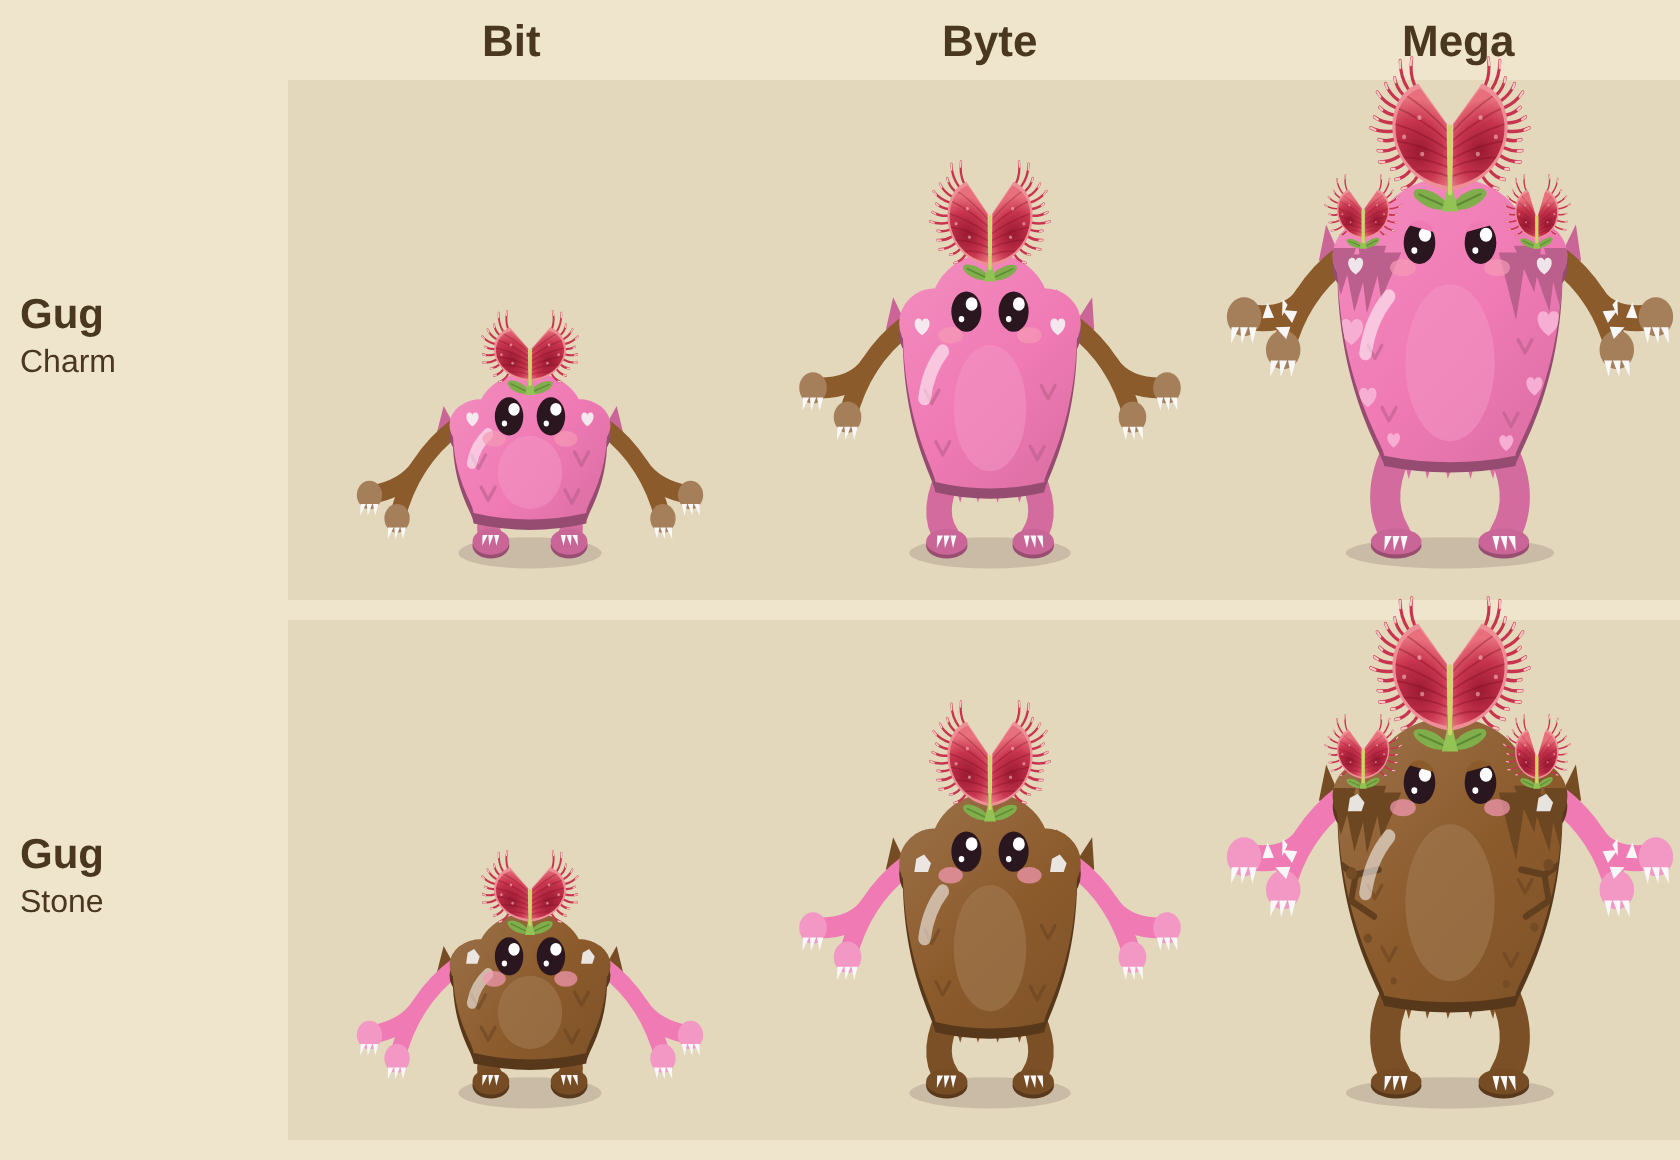
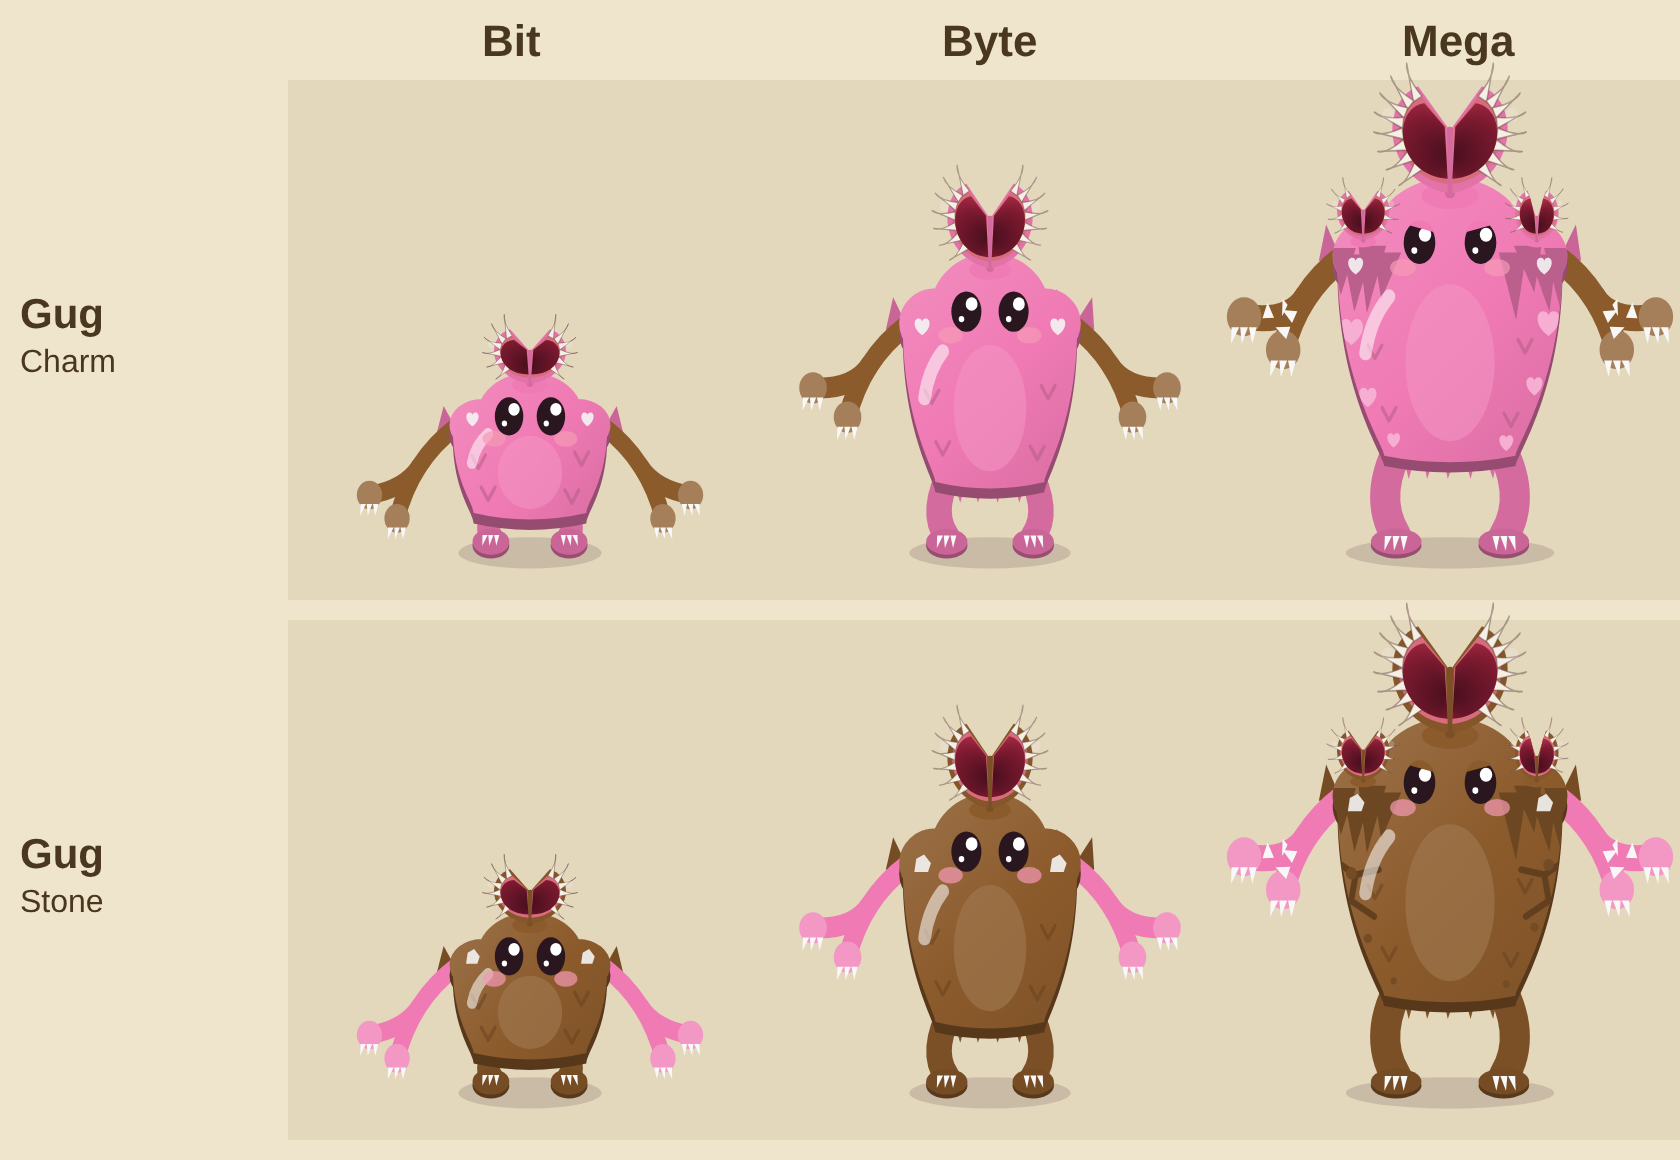
Gug's mouth is a real mouth shaped like a flytrap: two fleshy jaws in its own colour, pink gums, dark red inside and teeth along the rims, with no plant parts
Claude-Session: https://claude.ai/code/session_01MQWzxVrGaM5SWzbnobBWB8

diff --git a/prototype/chibi.js b/prototype/chibi.js
@@ -3554,7 +3554,7 @@ x.feet.push([g.cx, 182, 10]); },
     /* Gug: a hunched, shaggy giant with a big head sunk between its shoulders, long arms that hang to its knees, and forearms that fork at the elbow into two clawed hands. A furry little lump with short arms and a wide grin; long forked arms, a crouch and a shaggy mane from Byte; huge shoulders, a ridge of spiky fur, arms to the ground and big claws at Mega */
     Gug: {
       special: true, dims: { Bit: [66, 62], Byte: [82, 80], Mega: [96, 96] }, ll: st => by(st, 10, 18, 24),
-      bottom(st) { return 182 - this.ll(st); }, height(st) { return this.dims[st][1] + this.ll(st) + by(st, 30, 40, 52); },   // room for the flytrap on its head
+      bottom(st) { return 182 - this.ll(st); }, height(st) { return this.dims[st][1] + this.ll(st) + by(st, 30, 40, 52); },   // room for the mouth on its head
       hh: g => g.bh * by(g.stage, 0.6, 0.5, 0.46),
       path(c, g) { const hh = this.hh(g), sy = g.top + hh * 0.42, bw = g.bw, tw = bw * by(g.stage, 0.7, 0.6, 0.56);   // a head sunk between two big hunched shoulders over a body that narrows to the hips
         c.beginPath(); c.ellipse(g.cx, g.top + hh / 2, bw * 0.33, hh / 2, 0, 0, 7);
@@ -3599,37 +3599,32 @@ x.feet.push([g.cx, 182, 10]); },
       front(c, g, x) { const S = g.stage; if (x.back) return; const ck = by(S, 0.75, 0.85, 1.05), cc = rgb(lt(x.acc, 0.35));
         for (const sd of [-1, 1]) { const q = this.armQ(g, x, sd); this.claws(c, q[4], q[5] + 2, ck, cc, sd);
           if (S === 'Mega') this.thorns(c, [...qpt(q, 0.5), q[2] + (q[4] - q[2]) * 0.5, q[3] + (q[5] - q[3]) * 0.5, q[4], q[5]], rgb(lt(x.acc, 0.25))); } },   // thorns along the forearm at Mega
-      // a flytrap: two lobes either side of a green middle, red inside fading paler towards the rim, fine curved hairs along the
-      // rim, faint veins and three trigger hairs on each lobe, all on a green stalk with two small leaves. The lobes lean apart and snap shut now and then
-      trap(c, bx, by0, H, W, t, open, n, tl) { const ph = (t % 2600) / 2600, snap = ph > 0.86 ? Math.abs(Math.sin((ph - 0.86) / 0.14 * Math.PI)) : 0, o = (open ? 1.15 : 1) * (1 - snap * 0.85), sw = 0.2 + 0.8 * o, u0 = W / 22;
-        // the stalk and its two leaves, growing out of the head
-        c.fillStyle = '#7fae4a'; for (const sd of [-1, 1]) { c.save(); c.translate(bx + sd * 2 * u0, by0 + 3 * u0); c.rotate(sd * (1.15 + Math.sin(t / 700 + sd) * 0.06)); c.beginPath(); c.ellipse(0, -7 * u0, 3 * u0, 7.5 * u0, 0, 0, 7); c.fill(); c.strokeStyle = '#5d8a34'; c.lineWidth = 0.8 * u0; c.beginPath(); c.moveTo(0, 0); c.lineTo(0, -12 * u0); c.stroke(); c.restore(); }
-        c.fillStyle = '#93c255'; c.beginPath(); c.moveTo(bx - 3.5 * u0, by0 + 5 * u0); c.quadraticCurveTo(bx - 1.5 * u0, by0 - 2 * u0, bx - 1.2 * u0, by0 - 4 * u0); c.lineTo(bx + 1.2 * u0, by0 - 4 * u0); c.quadraticCurveTo(bx + 1.5 * u0, by0 - 2 * u0, bx + 3.5 * u0, by0 + 5 * u0); c.closePath(); c.fill();
-        const b0 = by0 - 3 * u0, mh = H * (0.62 - 0.3 * (1 - sw));
-        for (const sd of [-1, 1]) {
-          const peak = [bx + sd * W * 0.55 * sw + sd * 1.5 * u0, b0 - H], mid = [bx + sd * 1.2 * u0, b0 - mh], o1 = [bx + sd * W * (0.55 * sw + 0.85), b0 - H * 0.85], o2 = [bx + sd * W * (0.4 * sw + 0.9), b0 - H * 0.12], base = [bx + sd * u0, b0];
-          const at = u => { const v = 1 - u; return [0, 1].map(i => v * v * v * peak[i] + 3 * v * v * u * o1[i] + 3 * v * u * u * o2[i] + u * u * u * base[i]); }, lobe = (ins) => { c.beginPath(); c.moveTo(base[0], base[1] - ins); c.lineTo(mid[0] + sd * ins * 0.2, mid[1]); c.lineTo(peak[0] - sd * ins * 0.5, peak[1] + ins * 1.2); c.bezierCurveTo(o1[0] - sd * ins, o1[1] + ins * 0.4, o2[0] - sd * ins, o2[1] - ins * 0.3, base[0], base[1] - ins); c.closePath(); };
-          // the hairs along the rim: thin and curving up, red at the root and pale at the tip
-          const nh = Math.round(n * 1.8); c.lineCap = 'round';
-          for (let k2 = 0; k2 < nh; k2++) { const u = 0.03 + k2 / nh * 0.84, [px, py] = at(u), [qx, qy] = at(u + 0.02), dx = qx - px, dy = qy - py, L = Math.hypot(dx, dy) || 1, nx = dy / L * sd, ny = -dx / L * sd, len = tl * (1.15 + 0.25 * Math.sin(k2 * 2.1)) * (1 - u * 0.35);
-            const ex = px + nx * len + 0.35 * len * (dx / L) * -1, ey = py + ny * len - len * 0.25, cxh = px + nx * len * 0.55, cyh = py + ny * len * 0.55;
-            c.strokeStyle = '#c8344e'; c.lineWidth = 1.3 * u0; c.beginPath(); c.moveTo(px, py); c.quadraticCurveTo(cxh, cyh, ex, ey); c.stroke();
-            c.strokeStyle = '#f6c8c4'; c.lineWidth = 0.9 * u0; c.beginPath(); c.moveTo(cxh + (ex - cxh) * 0.55, cyh + (ey - cyh) * 0.55); c.lineTo(ex, ey); c.stroke(); }
-          c.fillStyle = '#ee8f98'; lobe(0); c.fill();   // the paler pink rim
-          c.fillStyle = '#b9cf72'; c.save(); lobe(0); c.clip(); c.beginPath(); c.ellipse(o2[0], o2[1] + 2 * u0, W * 0.5, H * 0.18, 0, 0, 7); c.fill(); c.restore();   // a little green where the lobe meets the stalk
-          const gx = (mid[0] + o1[0]) / 2, gy = (mid[1] + o2[1]) / 2, gr = c.createRadialGradient(gx - sd * W * 0.15, gy, 1, gx, gy, W * 0.9);
-          gr.addColorStop(0, '#9e1c34'); gr.addColorStop(0.55, '#c7344d'); gr.addColorStop(1, '#e8707c'); c.fillStyle = gr; lobe(1.6 * u0); c.fill();   // the red inside
-          c.save(); lobe(1.6 * u0); c.clip(); c.strokeStyle = 'rgba(120,15,35,.35)'; c.lineWidth = 0.7 * u0;   // faint veins fanning out from the middle, the way a leaf's do
-          for (let k2 = 0; k2 < 6; k2++) { const f = (k2 + 0.5) / 6, sx2 = bx + sd * u0, sy2 = b0 - mh * (0.95 - f * 0.8), [tx2, ty2] = at(0.08 + f * 0.75); c.beginPath(); c.moveTo(sx2, sy2); c.quadraticCurveTo((sx2 + tx2) / 2, (sy2 + ty2) / 2 - 2 * u0, tx2, ty2); c.stroke(); }
-          c.restore(); c.fillStyle = 'rgba(255,215,215,.5)'; for (const [fx, fy] of [[0.4, 0.32], [0.62, 0.5], [0.36, 0.66]]) { const px = mid[0] + (o1[0] - mid[0]) * fx, py = peak[1] + (base[1] - peak[1]) * fy; c.beginPath(); c.arc(px, py, 0.9 * u0, 0, 7); c.fill(); } }   // trigger hairs, three pale dots
-        c.strokeStyle = '#cfd56a'; c.lineWidth = Math.max(1.4, 1.8 * u0); c.lineCap = 'round'; c.beginPath(); c.moveTo(bx, b0 + 1); c.lineTo(bx, b0 - mh + 1); c.stroke(); },   // the green middle
+      // a mouth on top of its head, shaped like a flytrap: two fleshy jaws that open in a V from where they meet, dark red inside with
+      // pink gums, white teeth along both rims and a tongue in the middle. It stays open and snaps shut now and then
+      trap(c, bx, by0, H, W, t, open, n, tl, x) { const ph = (t % 2600) / 2600, snap = ph > 0.86 ? Math.abs(Math.sin((ph - 0.86) / 0.14 * Math.PI)) : 0, o = (open ? 1.15 : 1) * (1 - snap * 0.85), sw = 0.2 + 0.8 * o, u0 = W / 22;
+        const b0 = by0 - 2 * u0, mh = H * (0.62 - 0.3 * (1 - sw));
+        c.fillStyle = rgb(x.body); c.beginPath(); c.ellipse(bx, by0 - 1 * u0, W * 0.55, 5 * u0, 0, 0, 7); c.fill();   // where the jaws grow out of the head
+        const J = sd => { const peak = [bx + sd * W * 0.55 * sw + sd * 1.5 * u0, b0 - H], mid = [bx + sd * 1.2 * u0, b0 - mh], o1 = [bx + sd * W * (0.55 * sw + 0.85), b0 - H * 0.85], o2 = [bx + sd * W * (0.4 * sw + 0.9), b0 - H * 0.12], base = [bx + sd * u0, b0];
+          return { peak, mid, o1, o2, base, at: u => { const v = 1 - u; return [0, 1].map(i => v * v * v * peak[i] + 3 * v * v * u * o1[i] + 3 * v * u * u * o2[i] + u * u * u * base[i]); },
+            path: ins => { c.beginPath(); c.moveTo(base[0], base[1] - ins); c.lineTo(mid[0] + sd * ins * 0.2, mid[1]); c.lineTo(peak[0] - sd * ins * 0.5, peak[1] + ins * 1.2); c.bezierCurveTo(o1[0] - sd * ins, o1[1] + ins * 0.4, o2[0] - sd * ins, o2[1] - ins * 0.3, base[0], base[1] - ins); c.closePath(); } }; };
+        c.fillStyle = rgb(dk(x.body, 0.12)); c.beginPath(); c.roundRect(bx - 2.2 * u0, b0 - mh, 4.4 * u0, mh + 2 * u0, 2 * u0); c.fill();   // the hinge where the two jaws join
+        for (const sd of [-1, 1]) { const q = J(sd);
+          c.fillStyle = rgb(dk(x.body, 0.06)); q.path(0); c.fill();   // the jaw, in its own colour, with a thick lip
+          c.fillStyle = '#d96c7c'; q.path(3.4 * u0); c.fill();   // the gums
+          // teeth rooted in the gums and reaching out over the lip, along the rim and longest near the top
+          c.fillStyle = '#f6f0e4'; c.strokeStyle = 'rgba(90,60,50,.45)'; c.lineWidth = 0.6 * u0; for (let k2 = 0; k2 < n; k2++) { const u = 0.05 + k2 / n * 0.82, [px, py] = q.at(u), [qx, qy] = q.at(u + 0.025), dx = qx - px, dy = qy - py, L = Math.hypot(dx, dy) || 1, nx = dy / L * sd, ny = -dx / L * sd, len = tl * (1.25 - u * 0.55), wd = 2.1 * u0;
+            const ix = px - nx * 4.4 * u0, iy = py - ny * 4.4 * u0; c.beginPath(); c.moveTo(ix - dx / L * wd, iy - dy / L * wd); c.quadraticCurveTo(px + nx * len * 0.6, py + ny * len * 0.6, px + nx * len - dx / L * len * 0.3, py + ny * len - dy / L * len * 0.3); c.lineTo(ix + dx / L * wd, iy + dy / L * wd); c.closePath(); c.fill(); c.stroke(); }
+          const gx = (q.mid[0] + q.o1[0]) / 2, gy = (q.mid[1] + q.o2[1]) / 2, gr = c.createRadialGradient(bx, gy, 1, gx, gy, W * 0.95);
+          gr.addColorStop(0, '#4a0f1e'); gr.addColorStop(0.6, '#7d1a30'); gr.addColorStop(1, '#a52a44'); c.fillStyle = gr; q.path(5.4 * u0); c.fill();   // inside the mouth
+          c.fillStyle = 'rgba(255,255,255,.18)'; c.beginPath(); c.ellipse(q.o1[0] - sd * W * 0.2, q.o1[1] + H * 0.12, W * 0.12, H * 0.07, sd * 0.6, 0, 7); c.fill(); }   // a gleam inside
+      },
       hl: g => [g.left + g.bw * 0.14, g.top + g.bh * 0.62, g.left + g.bw * 0.16, g.top + g.bh * 0.5, g.left + g.bw * 0.24, g.top + g.bh * 0.42],
       head: g => [g.cx, g.top + 2, g.bw * 0.32],
       face(c, g, x, look) { const S = g.stage, hh = FAM.Gug.hh(g), fi = faceTwo(c, g, x, look, { ey: hh * 0.5 / g.bh, ex: 0.13, my: hh * 0.78 / g.bh, noMouth: true, s: by(S, 0.72, 0.76, 0.8) });
         if (x.back) return fi;
-        // its mouth is a flytrap on top of its head: two red lobes either side of a green middle, edged with long spikes. They stay open and snap shut now and then
-        this.trap(c, g.cx, g.top + hh * 0.16, hh * by(S, 0.62, 0.72, 0.82), g.bw * by(S, 0.2, 0.21, 0.22), x.t, x.open, by(S, 6, 7, 8), by(S, 5, 6.5, 8));
-        if (S === 'Mega') for (const sd of [-1, 1]) this.trap(c, g.cx + sd * g.bw * 0.37, g.top + hh * 0.5, hh * 0.38, g.bw * 0.1, x.t + 900 + sd * 450, false, 5, 4.5);   // two smaller traps on its shoulders, snapping out of step
+        // its mouth sits on top of its head, two jaws that open like a flytrap's (trap below)
+        this.trap(c, g.cx, g.top + hh * 0.16, hh * by(S, 0.62, 0.72, 0.82), g.bw * by(S, 0.2, 0.21, 0.22), x.t, x.open, by(S, 6, 7, 8), by(S, 5, 6.5, 8), x);
+        if (S === 'Mega') for (const sd of [-1, 1]) this.trap(c, g.cx + sd * g.bw * 0.37, g.top + hh * 0.5, hh * 0.38, g.bw * 0.1, x.t + 900 + sd * 450, false, 5, 4.5, x);   // two smaller mouths on its shoulders, snapping out of step
         return fi; }
     },
     /* Yog: Yog-Sothoth, a floating globe with smaller glowing globes always drifting round it, passing in front and behind, and feelers trailing under it. Three globes and three feelers; five globes with eyes in them and five feelers from Byte; seven globes that change colour, a ring of sparks and seven feelers at Mega */
